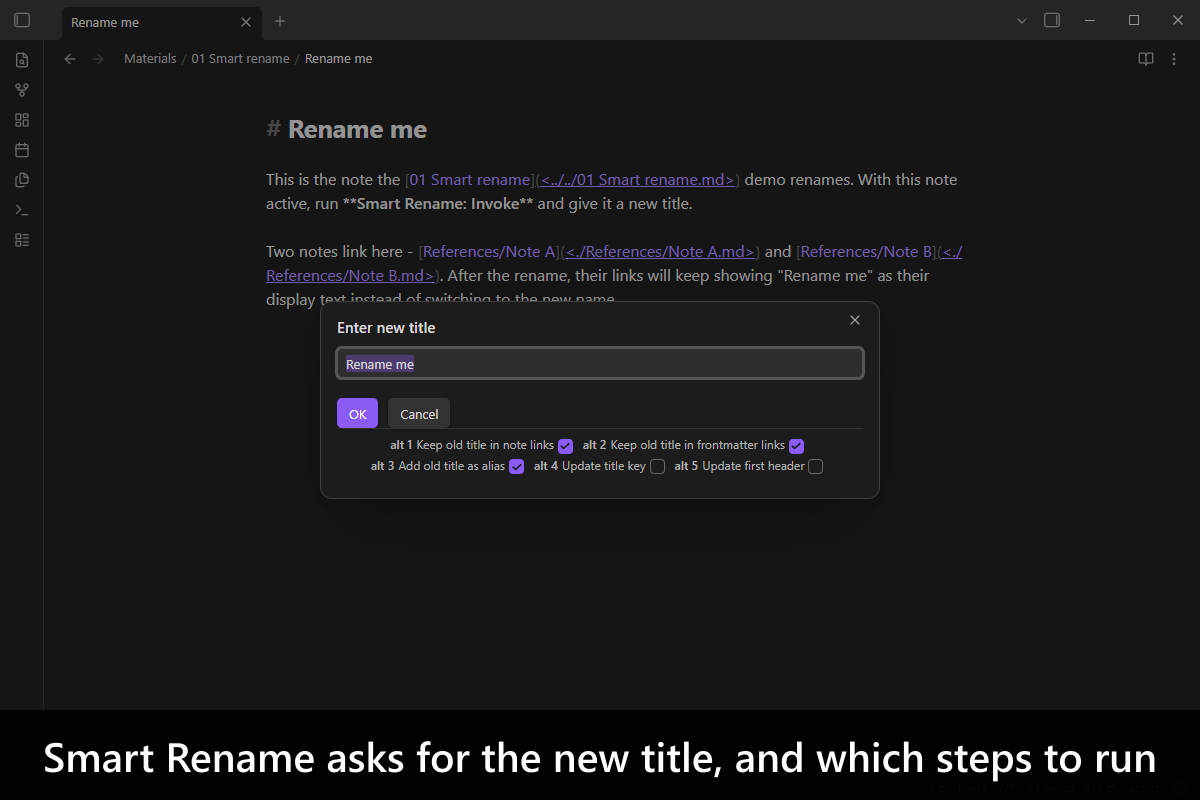
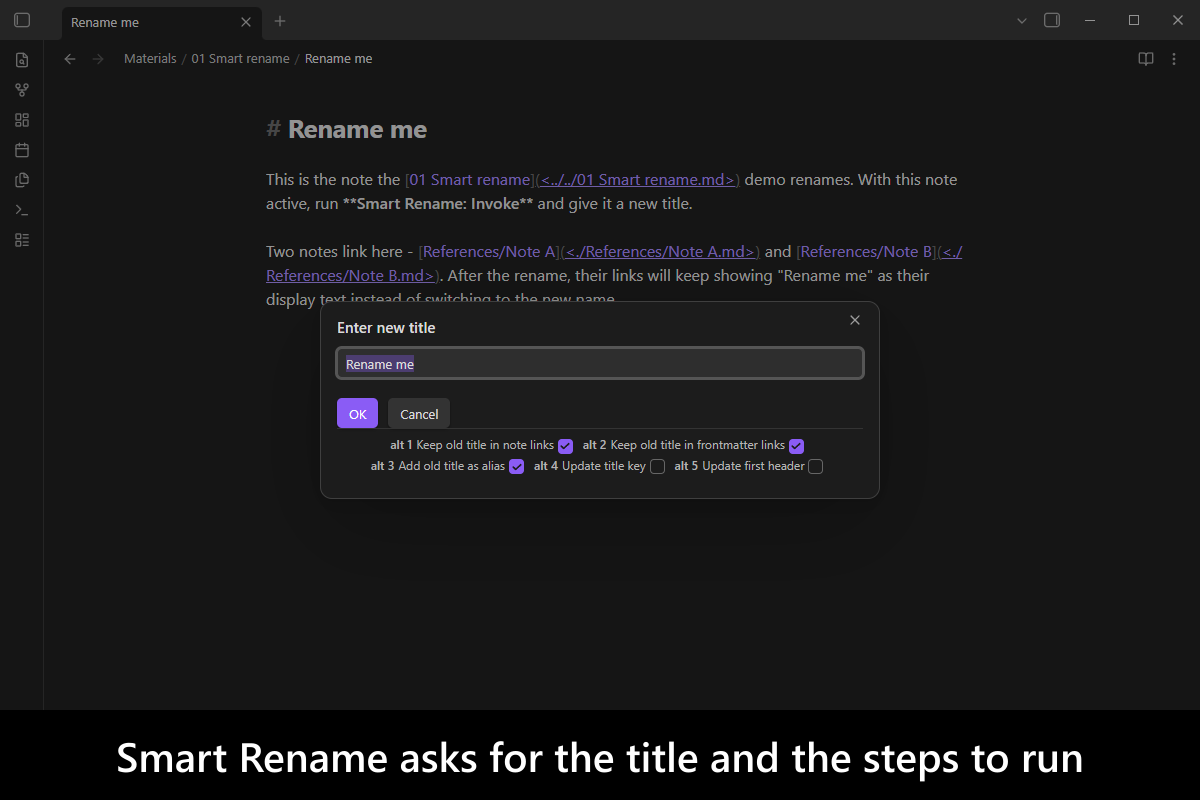
docs(screenshots): shorten the frame 2 caption so it fits both frames
The caption "Smart Rename asks for the new title, and which steps to run"
was 6 px too wide for the desktop frame and 12 px too wide for the mobile
one, so labelScreenshot now throws on it. "Smart Rename asks for the title
and the steps to run" keeps the meaning and fits both. Frame 2 is
re-shot on both platforms under the opaque caption band; only the band
rows changed, and frames 1, 3, 4 and 5 re-shot byte-identical.

Changed region(s): [[0.0308, 0.9062, 0.9867, 0.9688]]

diff --git a/src/screenshots.desktop-capture.integration.test.ts b/src/screenshots.desktop-capture.integration.test.ts
@@ -138,7 +138,7 @@ describe('desktop store screenshots', () => {
   it('2 - the prompt that asks for the new title', async () => {
     await openNote(SUBJECT_NOTE_PATH, 'source');
     await openRenamePrompt();
-    await shoot(2, 'Smart Rename asks for the new title, and which steps to run');
+    await shoot(2, 'Smart Rename asks for the title and the steps to run');
   });
 
   it('3 - the links after the rename, in source', async () => {

diff --git a/src/screenshots.android-capture.integration.test.ts b/src/screenshots.android-capture.integration.test.ts
@@ -149,7 +149,7 @@ describe('mobile store screenshots', () => {
   it('2 - the prompt that asks for the new title', async () => {
     await openNote(SUBJECT_NOTE_PATH, 'source');
     await openRenamePrompt();
-    await shoot(2, 'Smart Rename asks for the new title, and which steps to run');
+    await shoot(2, 'Smart Rename asks for the title and the steps to run');
   });
 
   it('3 - the links after the rename, in source', async () => {

diff --git a/README.md b/README.md
@@ -14,12 +14,12 @@ This plugin renames the note and keeps the old title as the link's **display tex
 <summary>More screenshots</summary>
 
 <div>
-<a href="https://github.com/mnaoumov/obsidian-smart-rename/blob/HEAD/images/screenshots/screenshot-desktop-2.png"><img src="images/screenshots/screenshot-desktop-2.png" alt="Smart Rename asks for the new title, and which steps to run" width="600"></a>
+<a href="https://github.com/mnaoumov/obsidian-smart-rename/blob/HEAD/images/screenshots/screenshot-desktop-2.png"><img src="images/screenshots/screenshot-desktop-2.png" alt="Smart Rename asks for the title and the steps to run" width="600"></a>
 <a href="https://github.com/mnaoumov/obsidian-smart-rename/blob/HEAD/images/screenshots/screenshot-desktop-3.png"><img src="images/screenshots/screenshot-desktop-3.png" alt="Every link now points at Renamed note" width="600"></a>
 <a href="https://github.com/mnaoumov/obsidian-smart-rename/blob/HEAD/images/screenshots/screenshot-desktop-4.png"><img src="images/screenshots/screenshot-desktop-4.png" alt="...and every one still reads Rename me" width="600"></a>
 <a href="https://github.com/mnaoumov/obsidian-smart-rename/blob/HEAD/images/screenshots/screenshot-desktop-5.png"><img src="images/screenshots/screenshot-desktop-5.png" alt="The old title is kept as an alias, so search still finds it" width="600"></a>
 <a href="https://github.com/mnaoumov/obsidian-smart-rename/blob/HEAD/images/screenshots/screenshot-mobile-1.png"><img src="images/screenshots/screenshot-mobile-1.png" alt="Four ways to link one note, all reading Rename me" width="270"></a>
-<a href="https://github.com/mnaoumov/obsidian-smart-rename/blob/HEAD/images/screenshots/screenshot-mobile-2.png"><img src="images/screenshots/screenshot-mobile-2.png" alt="Smart Rename asks for the new title, and which steps to run" width="270"></a>
+<a href="https://github.com/mnaoumov/obsidian-smart-rename/blob/HEAD/images/screenshots/screenshot-mobile-2.png"><img src="images/screenshots/screenshot-mobile-2.png" alt="Smart Rename asks for the title and the steps to run" width="270"></a>
 <a href="https://github.com/mnaoumov/obsidian-smart-rename/blob/HEAD/images/screenshots/screenshot-mobile-3.png"><img src="images/screenshots/screenshot-mobile-3.png" alt="Every link now points at Renamed note" width="270"></a>
 <a href="https://github.com/mnaoumov/obsidian-smart-rename/blob/HEAD/images/screenshots/screenshot-mobile-4.png"><img src="images/screenshots/screenshot-mobile-4.png" alt="...and every one still reads Rename me" width="270"></a>
 <a href="https://github.com/mnaoumov/obsidian-smart-rename/blob/HEAD/images/screenshots/screenshot-mobile-5.png"><img src="images/screenshots/screenshot-mobile-5.png" alt="The old title is kept as an alias, so search still finds it" width="270"></a>
